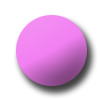
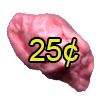
Added inventory items gumball and paperwad

diff --git a/Assets/Scripts/Item.cs b/Assets/Scripts/Item.cs
@@ -10,7 +10,7 @@ public class Item {
 	public Texture2D ItemIcon; //Item picture
 	public int Damage; //how much damage the item does to the enemy
 	public int ItemSpeed; //speed of the item movement
-	public int SpeedDecrease; //if it hits an enemy, the enemy will slow down
+	public double SpeedDecrease; //if it hits an enemy, the enemy will slow down
 	public ItemType itemtype; //determines the type of item
 	
 	public enum ItemType{
@@ -18,12 +18,12 @@ public class Item {
 		Stat
 	}
 
-	public Item(string name, int id, string des, int damage, int speed, int speeddecrease, ItemType type)
+	public Item(string name, int id, string des, int damage, int speed, double speeddecrease, ItemType type)
 	{
 		ItemName = name;
 		ItemID = id;
 		ItemDesc = des;
-		ItemIcon = Resources.Load<Texture2D> ("ItemSprites/" + name);
+		ItemIcon = Resources.Load<Texture2D> (name);
 		Damage = damage;
 		ItemSpeed = speed;
 		SpeedDecrease = speeddecrease;

diff --git a/Assets/Scripts/Inventory.cs b/Assets/Scripts/Inventory.cs
@@ -21,7 +21,9 @@ public class Inventory : MonoBehaviour {
 		//Gets items from gameobjects with a specific tag
 		database = GameObject.FindGameObjectWithTag("Item Database").GetComponent<ItemDatabase>(); 
 		//puts a single item to the inventory slots 
-		inventory[0] = database.items[0];
+		//inventory[0] = database.items[0];
+		AddItem (0);
+		AddItem (1);
 	}
 
 	void Update()
@@ -60,4 +62,24 @@ public class Inventory : MonoBehaviour {
 			}
 		}
 	}
+
+	void AddItem(int id)
+	{
+		for (int i = 0; i < inventory.Count; i++) 
+		{
+			if(inventory[i].ItemName == null)
+			{
+				for(int j = 0; j < database.items.Count; j++)
+				{
+					if(database.items[j].ItemID == id)
+					{
+						inventory[i] = database.items[j];
+					}
+				}
+				break;
+			}
+
+		}
+	}
+
 }

diff --git a/Assets/Scripts/ItemDatabase.cs b/Assets/Scripts/ItemDatabase.cs
@@ -6,6 +6,7 @@ public class ItemDatabase : MonoBehaviour {
 
 	void Start()
 	{
-		items.Add (new Item ("BubbleGum", 0, "Slows down enemies when they step on this.", 0, 0, 10, Item.ItemType.Stat));
+		items.Add (new Item ("BubbleGum", 0, "Slows down enemies when they step on this.", 0, 0, 2.2, Item.ItemType.Stat));
+		items.Add (new Item ("Paperwad", 1, "Deals 1 damage point towards enemies", 1, 8, 0, Item.ItemType.Weapon));
 	}
 }
